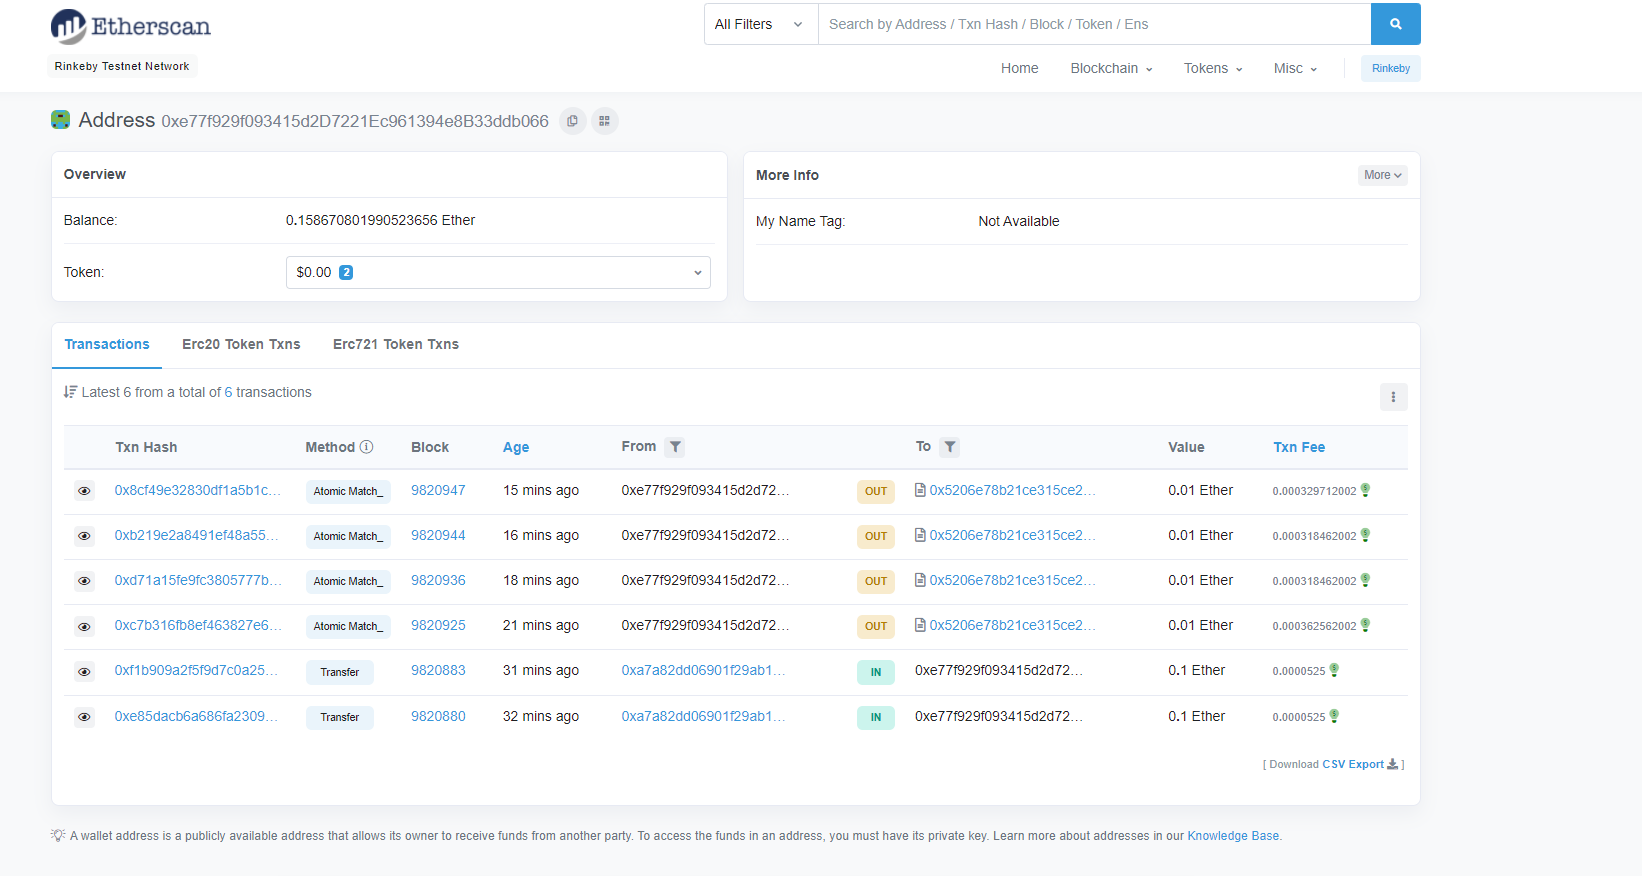
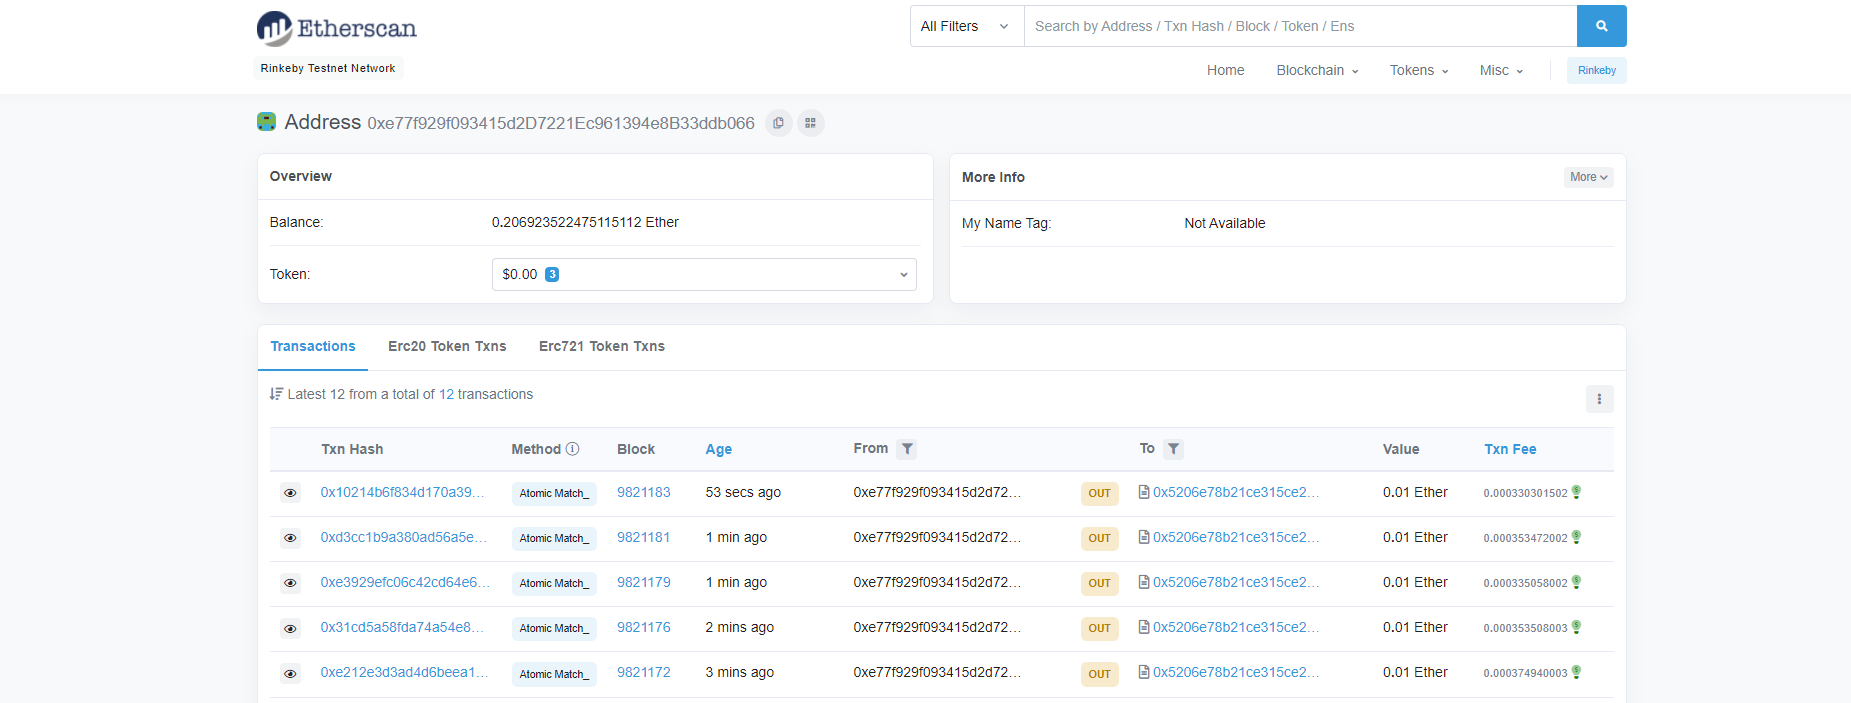
Updated the ReadMe again

diff --git a/README.md b/README.md
@@ -153,7 +153,7 @@ Under the Mint function option, enter the your account address and a token id (f
 
 ![remix](images/Remix_4.PNG)
 
-Here is what it looks like in Etherscan. You can see that more than 5 tokens have been minted (under multiple owners):
+Here is what it looks like in Etherscan. You can see that 5 tokens have been minted:
 
 ![etherscan](images/Etherscan_2.PNG)
 
@@ -166,28 +166,24 @@ On the item detail page on OpenSea, click "Sell". This will walk you through the
 Once an account has been created on OpenSea, then the easiest way to assign tokenized objects to it is by including the contract address and token id in the proper url. Here's an example of one:
 
 ```shell script
-https://testnets.opensea.io/assets/0x32f2330b649a9bfce5c90b2eaaf10dc8998cc03b/5
+https://testnets.opensea.io/assets/0x0EB9a81A0b0b540beEFc7a41F7c4Fe40488769Bd/1
 ```
 
 The first part of the URL includes the Rinkeby contract address. The second part includes the token id. Below is a screenshot of the tokenized images in Opensea:
 
 ![opensea](images/Opensea_3.PNG)
 
-I sold 4 of the tokenized images to one test account (0xe77f929f093415d2d7221ec961394e8b33ddb066):
+Below is an example of 2 of the tokenized images for sale:
+
+![opensea](images/Opensea_6.PNG)
+
+I sold 5 of the tokenized images to one test account (0xe77f929f093415d2d7221ec961394e8b33ddb066):
 
 ![opensea](images/Opensea_4.PNG)
 
-Below is the Etherscan list of the 4 tokenized images transferred to this account (0xe77f929f093415d2d7221ec961394e8b33ddb066):
+Below is the Etherscan list of the 5 tokenized images transferred to this account (0xe77f929f093415d2d7221ec961394e8b33ddb066):
 
 ![etherscan](images/Etherscan_3.PNG)
-
-I sold 1 more of the tokenized images to another test account (0xae3caf0d5463a719b478af997ac21a6f04d0499a):
-
-![opensea](images/Opensea_5.PNG)
-
-Below is the Etherscan list of the 1 tokenized image transferred to this account (0xae3caf0d5463a719b478af997ac21a6f04d0499a):
-
-![etherscan](images/Etherscan_4.PNG)
 
 ## Other Information
 
@@ -195,9 +191,9 @@ Here is some additional information about this project:
 
 Contract address on Rinkeby for CustomERC721Token: 0x32f2330b649A9bFCe5C90B2EaaF10dc8998cc03B
 
-Contract address on Rinkeby for SolnSquareVerifier: 0x010158ABf0Aa1ea7a96472f4EDc57Ecd7f4d0feB
+Contract address on Rinkeby for SolnSquareVerifier: 0x0EB9a81A0b0b540beEFc7a41F7c4Fe40488769Bd
 
-Link to OpenSea repository: https://testnets.opensea.io/collection/udacity-capstone-project-ai2dhozlyu
+Link to OpenSea repository: https://testnets.opensea.io/collection/unidentified-contract-eu35jzqksd
 
 All ABI files are in the /eth-contracts/build/contracts subdirectory
 
